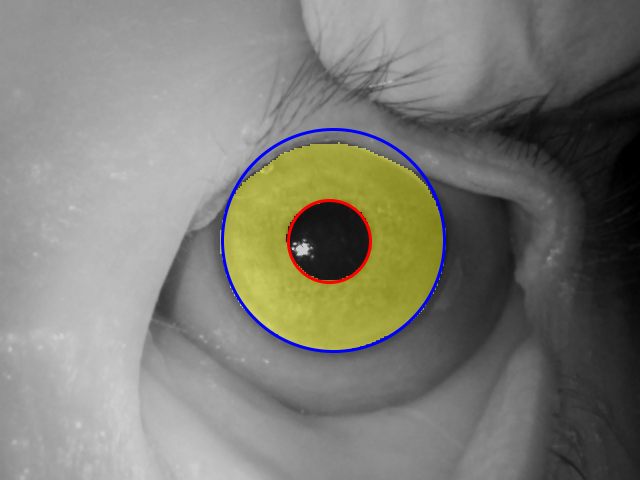
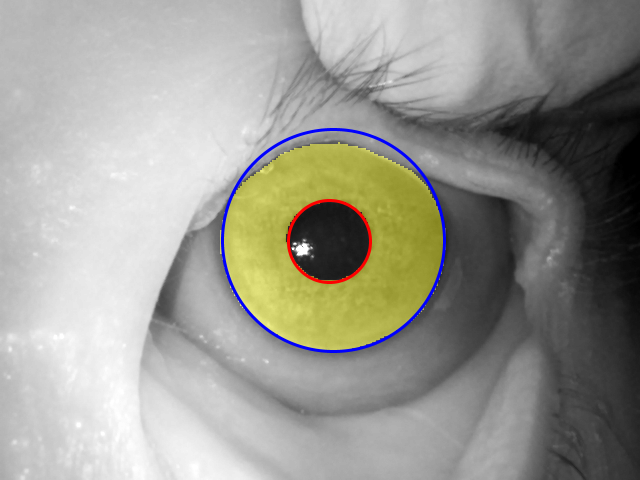
handling no-mask case

diff --git a/matlab/howto.m b/matlab/howto.m
@@ -5,17 +5,17 @@
 % The following codes and models were merged here into a complete iris
 % recognition software package:
 %
-% a) segmentation and normalization: 
-%    Mateusz Trokielewicz, Adam Czajka, Piotr Maciejewicz, ?Post-mortem 
-%    iris recognition with deep learning-based image segmentation,? Image 
+% a) segmentation and normalization:
+%    Mateusz Trokielewicz, Adam Czajka, Piotr Maciejewicz, ?Post-mortem
+%    iris recognition with deep learning-based image segmentation,? Image
 %    and Vision Computing, Vol. 94 (103866), Feb. 2020, pp. 1-11;
 %    pre-print: https://arxiv.org/abs/1901.01708
 %
 % b) human-driven BSIF-based iris pattern encoding:
-%    Adam Czajka, Daniel Moreira, Kevin W. Bowyer, Patrick Flynn, 
+%    Adam Czajka, Daniel Moreira, Kevin W. Bowyer, Patrick Flynn,
 %    ?Domain-Specific Human-Inspired Binarized Statistical Image Features
-%    for Iris Recognition,? The IEEE Winter Conference on Applications 
-%    of Computer Vision, Waikoloa Village, Hawaii, January 7-11, 2019; 
+%    for Iris Recognition,? The IEEE Winter Conference on Applications
+%    of Computer Vision, Waikoloa Village, Hawaii, January 7-11, 2019;
 %    pre-print: https://arxiv.org/abs/1807.05248
 % _________________________________________________________________________
 % Adam Czajka, October 2020, aczajka@nd.edu
@@ -72,17 +72,22 @@ for i = 1:uniqueFilesL
     
     % step 2: circular approximation and normalization
     [pupilData, irisData, status] = pmIrisCircApprox(maskCoarse,image);
-    [imagePol,maskPol] = pmIrisCartesianToPolar(image,maskFine,pupilData,irisData);
     
-    % write results, if needed:
-    imwrite(maskCoarse,[DIR_IMAGES_PROCESSED filePath(1:end-4) '_seg_coarse_mask.png'],'png');
-    imwrite(maskFine,[DIR_IMAGES_PROCESSED filePath(1:end-4) '_seg_fine_mask.png'],'png');
-    annotatedImage = pmSegNetAnnotate(image,maskFine,pupilData,irisData);
-    imwrite(annotatedImage,[DIR_IMAGES_PROCESSED filePath(1:end-4) '_seg_vis.png'],'png');
-    
-    % step 3: feature extraction
-    codePol = pmIrisBSIFCode(imagePol,ICAtextureFilters);
-    save([DIR_TEMPLATES filePath(1:end-4) '_tmpl.mat'],'maskPol','codePol');
+    if strcmp(status,'OK')
+        [imagePol,maskPol] = pmIrisCartesianToPolar(image,maskFine,pupilData,irisData);
+        
+        % write results, if needed:
+        imwrite(maskCoarse,[DIR_IMAGES_PROCESSED filePath(1:end-4) '_seg_coarse_mask.png'],'png');
+        imwrite(maskFine,[DIR_IMAGES_PROCESSED filePath(1:end-4) '_seg_fine_mask.png'],'png');
+        annotatedImage = pmSegNetAnnotate(image,maskFine,pupilData,irisData);
+        imwrite(annotatedImage,[DIR_IMAGES_PROCESSED filePath(1:end-4) '_seg_vis.png'],'png');
+        
+        % step 3: feature extraction
+        codePol = pmIrisBSIFCode(imagePol,ICAtextureFilters);
+        save([DIR_TEMPLATES filePath(1:end-4) '_tmpl.mat'],'maskPol','codePol');
+    else
+        imwrite(image,[DIR_IMAGES_PROCESSED filePath(1:end-4) '_seg_vis.png'],'png');
+    end
     
 end
 
@@ -96,20 +101,29 @@ f = fopen(compListScores,'w+');
 
 for i=1:compListH
     
-    % code / mask #1
-    load([DIR_TEMPLATES compList.file1{i}(1:end-4) '_tmpl.mat']);
-    code1 = codePol;
-    mask1 = maskPol;
+    f1 = [DIR_TEMPLATES compList.file1{i}(1:end-4) '_tmpl.mat'];
+    f2 = [DIR_TEMPLATES compList.file2{i}(1:end-4) '_tmpl.mat'];
     
-    % code / mask #2
-    load([DIR_TEMPLATES compList.file2{i}(1:end-4) '_tmpl.mat']);
-    code2 = codePol;
-    mask2 = maskPol;
-    
-    score = pmIrisBSIFMatch(code1,code2,mask1,mask2,l);
-    
-    fprintf(f,[compList.file1{i} ' ' compList.file2{i} ' ' num2str(score) '\n']);
-    disp([compList.file1{i} ' <> ' compList.file2{i} ' = ' num2str(score)])
+    if exist(f1,'file') && exist(f2,'file')
+        
+        % code / mask #1
+        load(f1);
+        code1 = codePol;
+        mask1 = maskPol;
+        
+        % code / mask #2
+        load(f2);
+        code2 = codePol;
+        mask2 = maskPol;
+        
+        score = pmIrisBSIFMatch(code1,code2,mask1,mask2,l);
+        
+        fprintf(f,[compList.file1{i} ' ' compList.file2{i} ' ' num2str(score) '\n']);
+        disp([compList.file1{i} ' <> ' compList.file2{i} ' = ' num2str(score)])
+        
+    else
+        fprintf(f,[compList.file1{i} ' ' compList.file2{i} ' -1.0\n']);
+    end
     
 end
 

diff --git a/matlab/pmIrisCircApprox.m b/matlab/pmIrisCircApprox.m
@@ -17,12 +17,12 @@ MASK = bwareafilt(MASK, 1);
 % Crop the image to the blob to estimate the iris size
 MASK_CROPPED = cropmat(MASK, MASK);
 
-if ~isempty(MASK_CROPPED)
+if bwarea(MASK) > 64
     
     IRIS_RADIUS_ESTIMATE = round(max(size(MASK_CROPPED))/2); % use larger of the sizes
     
     % Create the iris radius search range for Hough transform
-    SEARCH_RANGE_I = [(IRIS_RADIUS_ESTIMATE - lower_margin_iris) (IRIS_RADIUS_ESTIMATE + upper_margin_iris)];
+    SEARCH_RANGE_I = [max(1,(IRIS_RADIUS_ESTIMATE - lower_margin_iris)) (IRIS_RADIUS_ESTIMATE + upper_margin_iris)];
     
     % Estimate the outer iris circle with Hough
     [IRIS_CENTERS, IRIS_RADII, ~] = imfindcircles(MASK, SEARCH_RANGE_I, 'ObjectPolarity', 'bright', 'Sensitivity', 0.99);
@@ -51,7 +51,7 @@ if ~isempty(MASK_CROPPED)
     MASK_CROPPED_INVERSE = logical(1 - MASK_CROPPED);
     
     % Crop 5% from each side of the image to close most openings
-    CROP = round(0.05 * max(size(MASK_CROPPED_INVERSE)));
+    CROP = max(1,round(0.05 * max(size(MASK_CROPPED_INVERSE))));
     MASK_CROPPED_INVERSE = MASK_CROPPED_INVERSE(CROP:end-CROP, CROP:end-CROP);
     
     % Locate centroids
@@ -114,7 +114,7 @@ else
     irisData.xCirclePoints = 0;
     irisData.yCirclePoints = 0;
     
-    status = 'empty mask';
+    status = 'mask too small';
     
 end
 

diff --git a/matlab/pmIrisSegment.m b/matlab/pmIrisSegment.m
@@ -3,9 +3,6 @@
 %    mask = pmIrisSegment(image,net) calculates binary mask
 %    indicating iris (white mask elements) and non-iris (black mask pixels)
 %    areas for an input iris image 'image', using the SegNet model 'net'.
-% 
-%    [mask,pupilBoundary,irisBoundary] = pmIrisSegment(image,net) returns
-%    additionally circular approximations of the pupil and the iris.
 %
 %    Input:
 %    image     - iris image, preferably compliant with ISO/IEC 19794-6

diff --git a/matlab/pmSegNetAnnotate.m b/matlab/pmSegNetAnnotate.m
@@ -25,7 +25,7 @@ end
 
 image = double(imresize(image,[480 640],'bicubic'));
 
-annotatedImage = double(0.8*image);
+annotatedImage = double(image);
 annotatedImage(:,:,1) = min(255,annotatedImage(:,:,1) + 0.4*255*double(mask));
 annotatedImage(:,:,2) = min(255,annotatedImage(:,:,2) + 0.4*255*double(mask));
 
